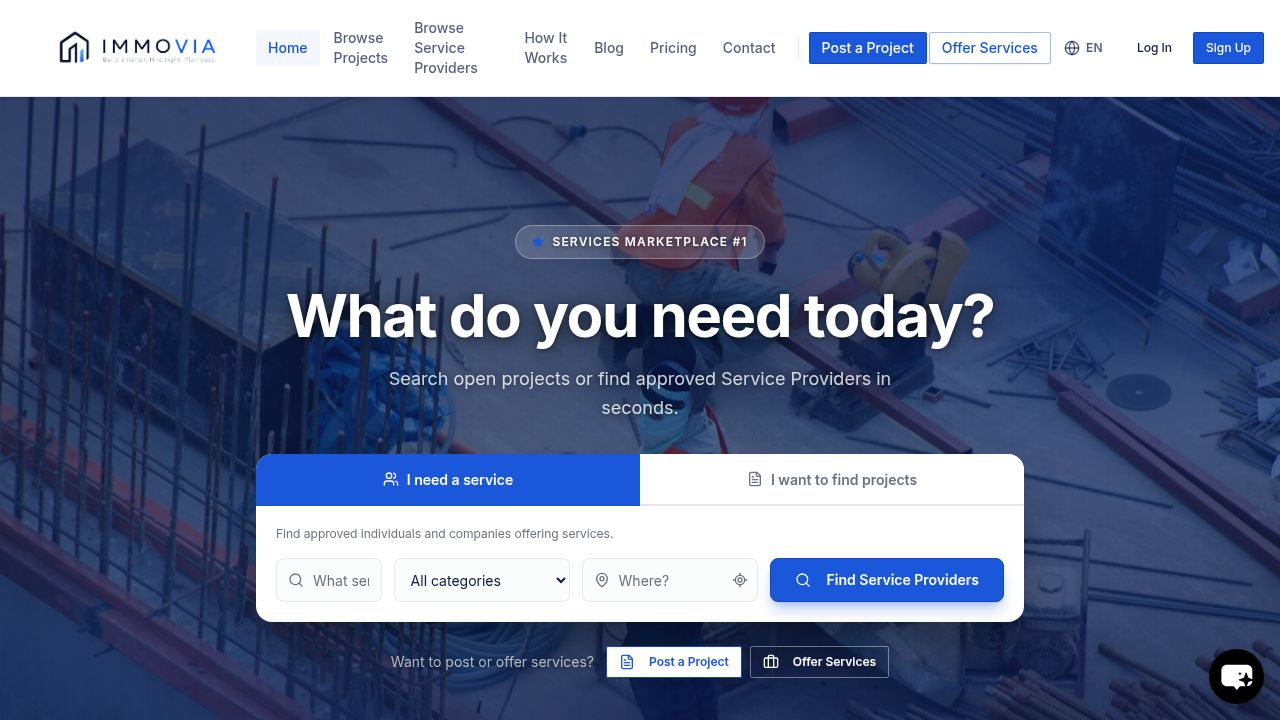
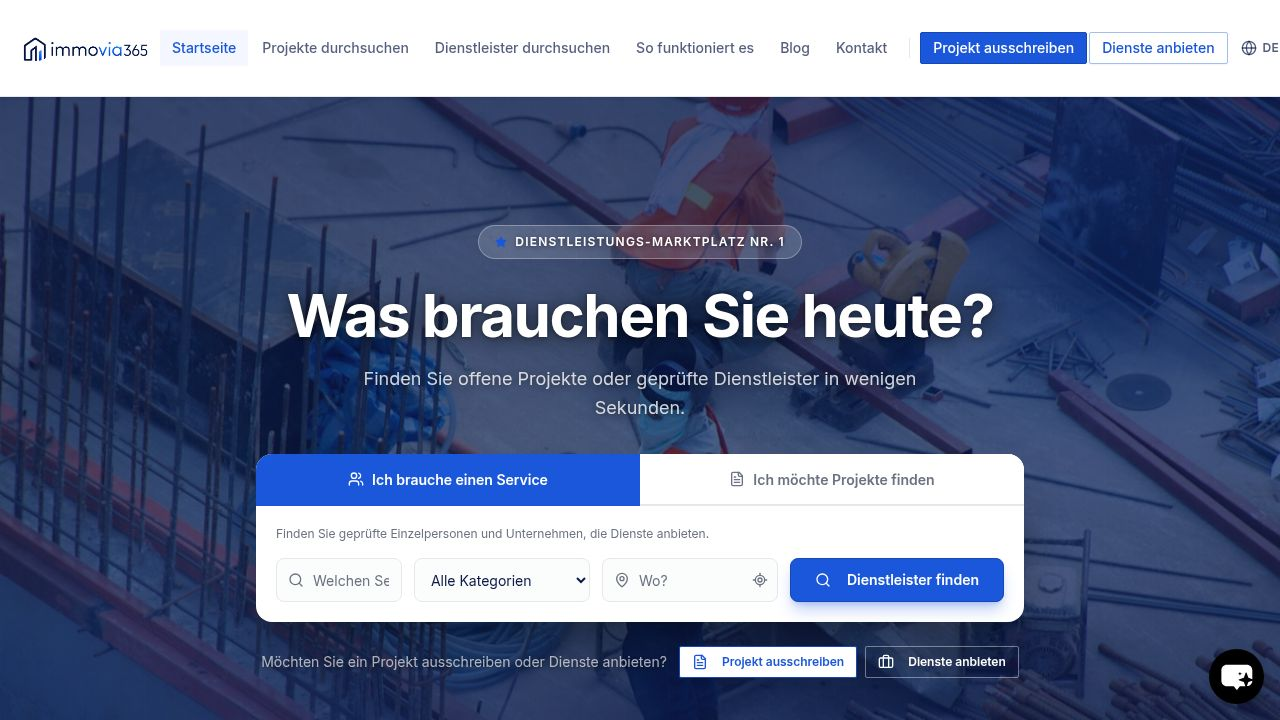
Add functionality to filter companies by subcategory and improve provider details
Update API to accept subcategory, enhance company filtering with subcategory chips, and display subcategory information in the provider dashboard.

Replit-Commit-Author: Agent
Replit-Commit-Session-Id: 73f2c727-5ce0-4d8a-863c-7761cc25c059
Replit-Commit-Checkpoint-Type: full_checkpoint
Replit-Commit-Event-Id: 4c5b9821-81f5-4632-adc9-7af45cd089b8
Replit-Commit-Screenshot-Url: https://storage.googleapis.com/screenshot-production-us-central1/390f730c-9883-4048-8a7c-03f152e0bedd/73f2c727-5ce0-4d8a-863c-7761cc25c059/hVGReri
Replit-Helium-Checkpoint-Created: true

diff --git a/artifacts/immovia/src/pages/companies.tsx b/artifacts/immovia/src/pages/companies.tsx
@@ -15,7 +15,7 @@ import {
 import { Skeleton } from "@/components/ui/skeleton";
 import { motion, AnimatePresence } from "framer-motion";
 
-import { CATEGORIES, getCategoryLabel, getTagLabel, resolveAnyLabel, type Lang } from "@/lib/categories";
+import { CATEGORIES, getCategoryLabel, getTagLabel, type Lang } from "@/lib/categories";
 
 const SERVICE_OPTIONS = CATEGORIES.map(c => c.key);
 
@@ -223,6 +223,8 @@ export default function Companies() {
 
   const activeFiltersCount = [activeServices.length > 0, !!workerTypeFilter, !!cityFilter].filter(Boolean).length;
 
+  const activeMainCat = CATEGORIES.find(c => activeServices.includes(c.key)) ?? null;
+
   const clearFilters = () => {
     setActiveServices([]);
     setWorkerTypeFilter("");
@@ -299,6 +301,26 @@ export default function Companies() {
               </button>
             ))}
           </div>
+          {/* Sub-category chips — shown when a main category is active */}
+          {activeMainCat && (
+            <div className="mt-2 flex gap-2 overflow-x-auto pb-1 scrollbar-none -mx-4 px-4">
+              {activeMainCat.tags.map(tag => (
+                <button
+                  key={tag.key}
+                  onClick={() => setActiveServices(prev =>
+                    prev.includes(tag.key) ? prev.filter(s => s !== tag.key) : [...prev, tag.key]
+                  )}
+                  className={`flex-shrink-0 px-3 py-1 rounded-full text-xs font-medium transition-all border ${
+                    activeServices.includes(tag.key)
+                      ? "bg-white text-primary border-white shadow-md"
+                      : "bg-white/10 text-white/70 border-white/20 hover:bg-white/20"
+                  }`}
+                >
+                  {getTagLabel(tag, language as Lang)}
+                </button>
+              ))}
+            </div>
+          )}
         </div>
       </div>
 

diff --git a/artifacts/immovia/src/pages/provider.tsx b/artifacts/immovia/src/pages/provider.tsx
@@ -1182,7 +1182,12 @@ export default function ProviderDashboard() {
                           {filtered.map(p => (
                             <TableRow key={p.id}>
                               <TableCell className="font-medium">{p.fullName}</TableCell>
-                              <TableCell>{getCategoryLabel(CATEGORIES.find(c => c.key === p.projectType) ?? CATEGORIES[CATEGORIES.length - 1], language as Lang)}</TableCell>
+                              <TableCell>
+                                <div>{getCategoryLabel(CATEGORIES.find(c => c.key === p.projectType) ?? CATEGORIES[CATEGORIES.length - 1], language as Lang)}</div>
+                                {(p as {subcategory?: string | null}).subcategory && (
+                                  <div className="text-xs text-primary/70">{resolveTagLabel((p as {subcategory?: string | null}).subcategory!, language as Lang)}</div>
+                                )}
+                              </TableCell>
                               <TableCell>{p.city}</TableCell>
                               <TableCell className="capitalize">{p.size}</TableCell>
                               <TableCell className="text-right">
@@ -1216,10 +1221,15 @@ export default function ProviderDashboard() {
                             ) : (
                               <div className="text-primary/30"><Images className="w-12 h-12" /></div>
                             )}
-                            <div className="absolute top-2.5 left-2.5">
+                            <div className="absolute top-2.5 left-2.5 flex flex-col gap-1">
                               <Badge className="capitalize bg-white/90 text-primary border-primary/20 backdrop-blur-sm text-xs shadow-sm">
                                 {getCategoryLabel(CATEGORIES.find(c => c.key === p.projectType) ?? CATEGORIES[CATEGORIES.length - 1], language as Lang)}
                               </Badge>
+                              {(p as {subcategory?: string | null}).subcategory && (
+                                <Badge className="bg-primary/10 text-primary border-primary/20 backdrop-blur-sm text-xs shadow-sm">
+                                  {resolveTagLabel((p as {subcategory?: string | null}).subcategory!, language as Lang)}
+                                </Badge>
+                              )}
                             </div>
                             {hasPhotos && p.photos.length > 1 && (
                               <button
@@ -1700,6 +1710,9 @@ export default function ProviderDashboard() {
               <div className="bg-muted/40 rounded-lg p-3">
                 <p className="text-xs text-muted-foreground mb-1 uppercase tracking-wide">{t.provider.colType}</p>
                 <p className="font-medium">{detailProject?.projectType ? getCategoryLabel(CATEGORIES.find(c => c.key === detailProject.projectType) ?? CATEGORIES[CATEGORIES.length - 1], language as Lang) : ""}</p>
+                {(detailProject as {subcategory?: string | null} | null)?.subcategory && (
+                  <p className="text-xs text-primary/70 mt-0.5">{resolveTagLabel((detailProject as {subcategory?: string | null}).subcategory!, language as Lang)}</p>
+                )}
               </div>
               <div className="bg-muted/40 rounded-lg p-3">
                 <p className="text-xs text-muted-foreground mb-1 uppercase tracking-wide">{t.provider.colSize}</p>

diff --git a/artifacts/api-server/src/routes/projects.ts b/artifacts/api-server/src/routes/projects.ts
@@ -68,6 +68,7 @@ router.post("/projects", async (req, res): Promise<void> => {
     email: parsed.data.email,
     phone: parsed.data.phone,
     projectType: parsed.data.projectType,
+    subcategory: parsed.data.subcategory ?? null,
     description: parsed.data.description,
     city: parsed.data.city,
     budget: parsed.data.budget ?? null,